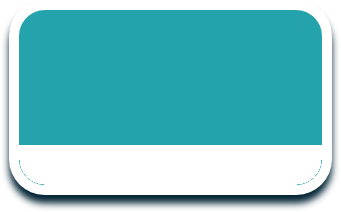
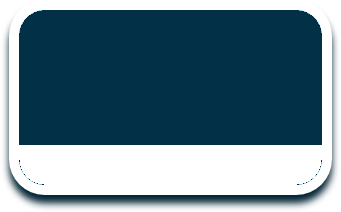
design

diff --git a/PT2023/WelcomePage.xaml b/PT2023/WelcomePage.xaml
@@ -7,33 +7,91 @@
              mc:Ignorable="d" 
              d:DesignHeight="450" d:DesignWidth="800" >
     <Grid Name="myGrid">
-        <Image Source="Images\BackgroundW.png" Name="backgroundImg" Stretch="Fill"  />
+        <!-- <Image Source="Images\BackgroundW.png" Name="backgroundImg" Stretch="Fill"  /> -->
+        <Rectangle Fill="#8ecae6"  />
         <Image Source="Images\Title.png" VerticalAlignment="Top" HorizontalAlignment="Center" Height="90"/>
         <Grid Name="Grid_for_Mode_Selection" Visibility="Visible">
             <Grid Name="PracticeGrid" Height="120" HorizontalAlignment="Left" VerticalAlignment="Top"  Margin="42,230,620,225" Width="200" >
                 <Image Source="Images\container4.png"  Stretch="Fill"  />
-                <Button  HorizontalAlignment="Left" BorderThickness="0" Margin="10,5,0,0" VerticalAlignment="Top" FontSize="20" Background="Transparent" Click="Button_Click_1" Height="70" Width="70">
-                    <Image Source="Images/btn_speaking.png" />
+                <Button Name="PracticeButton" HorizontalAlignment="Left" MouseEnter="PracticeButton_MouseEnter" MouseLeave="PracticeButton_MouseLeave" BorderThickness="0"  Margin="10,5,0,0" VerticalAlignment="Top" FontSize="20" Background="Transparent" Click="Button_Click_1" Height="70" Width="70">
+                    <Button.Style>
+                        <Style TargetType="{x:Type Button}">
+                            <Setter Property="Background" Value="Transparent"/>
+                            <Setter Property="Template">
+                                <Setter.Value>
+                                    <ControlTemplate TargetType="{x:Type Button}">
+                                        <Border Background="{TemplateBinding Background}">
+                                            <ContentPresenter HorizontalAlignment="Center" VerticalAlignment="Center"/>
+                                        </Border>
+                                    </ControlTemplate>
+                                </Setter.Value>
+                            </Setter>
+                            <Style.Triggers>
+                                <Trigger Property="IsMouseOver" Value="True">
+                                    <Setter Property="Background" Value="Transparent"/>
+                                </Trigger>
+                            </Style.Triggers>
+                        </Style>
+                    </Button.Style>
+                    <Image x:Name="imgPracticeButton" Source="Images/btn_speaking.png" />
                 </Button>
-                <Label Content="Practice Presentation" FontSize="13" HorizontalAlignment="Left" Margin="10,0,0,5" VerticalAlignment="Bottom"  Foreground="Black"/>
-                <CheckBox Content="Script" HorizontalAlignment="Left" Margin="95,55,0,0" VerticalAlignment="Top" Name="checkBoxScript" />
-                <CheckBox Content="Skeleton" HorizontalAlignment="Left" Margin="95,35,0,0" VerticalAlignment="Top" Name="checkBoxSkeleton"/>
+                <Label Content="Practice Presentation" FontSize="13" HorizontalAlignment="Left" Margin="10,0,0,5" VerticalAlignment="Bottom"  Foreground="Black" FontWeight="Bold"/>
+                <CheckBox Content="Script" Foreground="White" HorizontalAlignment="Left" Margin="95,55,0,0" VerticalAlignment="Top" Name="checkBoxScript" />
+                <CheckBox Content="Skeleton" Foreground="White" HorizontalAlignment="Left" Margin="95,35,0,0" VerticalAlignment="Top" Name="checkBoxSkeleton"/>
 
             </Grid>
             <Grid Name="AddScriptGrid" Height="120" HorizontalAlignment="Left" VerticalAlignment="Top"  Margin="42,80,620,225" Width="200" >
                 <Image Source="Images\container4.png"  Stretch="Fill"  />
-                <Button Name="Button_add_Script" BorderThickness="0" HorizontalAlignment="Left" Margin="10,5,0,0" VerticalAlignment="Top" FontSize="13" Background="Transparent"  Height="70" Width="70" Click="Button_add_Script_Click">
-                    <Image Source="Images/btn_script.png" />
+                <Button Name="Button_add_Script" BorderThickness="0" HorizontalAlignment="Center" Margin="0,5,0,0" VerticalAlignment="Top" FontSize="13" Background="Transparent"  Height="70" Width="70" MouseEnter="Button_add_Script_MouseEnter" MouseLeave="Button_add_Script_MouseLeave" Click="Button_add_Script_Click">
+                    <Button.Style>
+                        <Style TargetType="{x:Type Button}">
+                            <Setter Property="Background" Value="Transparent"/>
+                            <Setter Property="Template">
+                                <Setter.Value>
+                                    <ControlTemplate TargetType="{x:Type Button}">
+                                        <Border Background="{TemplateBinding Background}">
+                                            <ContentPresenter HorizontalAlignment="Center" VerticalAlignment="Center"/>
+                                        </Border>
+                                    </ControlTemplate>
+                                </Setter.Value>
+                            </Setter>
+                            <Style.Triggers>
+                                <Trigger Property="IsMouseOver" Value="True">
+                                    <Setter Property="Background" Value="Transparent"/>
+                                </Trigger>
+                            </Style.Triggers>
+                        </Style>
+                    </Button.Style>
+                    <Image x:Name="imgButtonScript" Source="Images/btn_script.png" />
                 </Button>
-                <Label Content="Work with Script" FontSize="13" HorizontalAlignment="Left" Margin="10,0,0,5" VerticalAlignment="Bottom"  Foreground="Black"/>
+                <Label Content="Work with Script" FontSize="13" HorizontalAlignment="Left" Margin="10,0,0,5" VerticalAlignment="Bottom"  Foreground="Black" FontWeight="Bold"/>
 
             </Grid>
             <Grid Name="MemoriseScriptGrid" Height="120" HorizontalAlignment="Left" VerticalAlignment="Top"  Margin="274,80,0,0" Width="200" >
                 <Image Source="Images\container4.png"  Stretch="Fill"  />
-                <Button Name="Button_add_Memory"  BorderThickness="0" HorizontalAlignment="Left" Margin="10,5,0,0" VerticalAlignment="Top" FontSize="20" Background="Transparent"  Height="70" Width="70" Click="Button_add_Memory_Click" >
-                    <Image Source="Images/btn_memory.png" />
+                <Button Name="Button_add_Memory"  BorderThickness="0" MouseEnter="Button_add_Memory_MouseEnter" MouseLeave="Button_add_Memory_MouseLeave" HorizontalAlignment="Center" Margin="0,5,0,0" VerticalAlignment="Top" FontSize="20" Background="Transparent"  Height="70" Width="70" Click="Button_add_Memory_Click" >
+                    <Button.Style>
+                        <Style TargetType="{x:Type Button}">
+                            <Setter Property="Background" Value="Transparent"/>
+                            <Setter Property="Template">
+                                <Setter.Value>
+                                    <ControlTemplate TargetType="{x:Type Button}">
+                                        <Border Background="{TemplateBinding Background}">
+                                            <ContentPresenter HorizontalAlignment="Center" VerticalAlignment="Center"/>
+                                        </Border>
+                                    </ControlTemplate>
+                                </Setter.Value>
+                            </Setter>
+                            <Style.Triggers>
+                                <Trigger Property="IsMouseOver" Value="True">
+                                    <Setter Property="Background" Value="Transparent"/>
+                                </Trigger>
+                            </Style.Triggers>
+                        </Style>
+                    </Button.Style>
+                    <Image x:Name="imgMemoryButton" Source="Images/btn_memory.png" />
                 </Button>
-                <Label Content="Memorise your Script" FontSize="13" HorizontalAlignment="Left" Margin="10,0,0,5" VerticalAlignment="Bottom"  Foreground="Black"/>
+                <Label Content="Memorise your Script" FontSize="13" HorizontalAlignment="Left" Margin="10,0,0,5" VerticalAlignment="Bottom"  Foreground="Black" FontWeight="Bold"/>
 
             </Grid>
 
@@ -48,28 +106,62 @@
 
             <Grid Name="ReviewPracticeGrid" Height="120" HorizontalAlignment="Left" VerticalAlignment="Top"  Margin="274,232,0,0" Width="200" >
                 <Image Source="Images\container4.png"  Stretch="Fill"  />
-                <Button Name="Button_Review_Practice"  BorderThickness="0" HorizontalAlignment="Left" Margin="10,5,0,0" VerticalAlignment="Top" FontSize="20" Background="Transparent"  Height="70" Width="70" Click="Button_Review_Practice_Click">
-                    <Image Source="Images/btn_review.png" />
+                <Button Name="Button_Review_Practice"  BorderThickness="0" MouseEnter="Button_Review_Practice_MouseEnter" MouseLeave="Button_Review_Practice_MouseLeave" HorizontalAlignment="Center" Margin="0,5,0,0" VerticalAlignment="Top" FontSize="20" Background="Transparent"  Height="70" Width="70" Click="Button_Review_Practice_Click">
+                    <Button.Style>
+                        <Style TargetType="{x:Type Button}">
+                            <Setter Property="Background" Value="Transparent"/>
+                            <Setter Property="Template">
+                                <Setter.Value>
+                                    <ControlTemplate TargetType="{x:Type Button}">
+                                        <Border Background="{TemplateBinding Background}">
+                                            <ContentPresenter HorizontalAlignment="Center" VerticalAlignment="Center"/>
+                                        </Border>
+                                    </ControlTemplate>
+                                </Setter.Value>
+                            </Setter>
+                            <Style.Triggers>
+                                <Trigger Property="IsMouseOver" Value="True">
+                                    <Setter Property="Background" Value="Transparent"/>
+                                </Trigger>
+                            </Style.Triggers>
+                        </Style>
+                    </Button.Style>
+                    <Image x:Name="imgButtonReview" Source="Images/btn_review.png" />
                 </Button>
-                <Label Content="Review your practice" FontSize="13" HorizontalAlignment="Left" Margin="10,00,0,5" VerticalAlignment="Bottom"  Foreground="Black"/>
+                <Label Content="Review your practice" FontSize="13" HorizontalAlignment="Left" Margin="10,00,0,5" VerticalAlignment="Bottom"  Foreground="Black" FontWeight="Bold"/>
                
             </Grid>
             <Grid Name="PresentationTipsGrid" Height="120" HorizontalAlignment="Left" VerticalAlignment="Top"  Margin="50,380,220, 225" Width="200" >
                 <Image Source="Images\container4.png"  Stretch="Fill"  />
-                <Button Name="Button_Presentation_Tips"  BorderThickness="0" HorizontalAlignment="Left" Margin="10,5,0,0" VerticalAlignment="Top" FontSize="20" Background="Transparent"  Height="77" Width="180" Click="Button_Presentation_Tips_Click">
-                    <Button.ToolTip>
-                        <ToolTip>
-                            <TextBlock Text="Get your valuable presentation tips here"/>
-                        </ToolTip>
-                    </Button.ToolTip>
-                    <Image Source="Images/Tips presentation.png" />
+                <Button Name="Button_Presentation_Tips"  BorderThickness="0" HorizontalAlignment="Center" MouseEnter="Button_Presentation_Tips_MouseEnter" MouseLeave="Button_Presentation_Tips_MouseLeave" Margin="0,5,0,0" VerticalAlignment="Top" FontSize="20" Background="Transparent"  Height="77" Width="180" Click="Button_Presentation_Tips_Click">
+                    <Button.Style>
+                        <Style TargetType="{x:Type Button}">
+                            <Setter Property="Background" Value="Transparent"/>
+                            <Setter Property="Template">
+                                <Setter.Value>
+                                    <ControlTemplate TargetType="{x:Type Button}">
+                                        <Border Background="{TemplateBinding Background}">
+                                            <ContentPresenter HorizontalAlignment="Center" VerticalAlignment="Center"/>
+                                        </Border>
+                                    </ControlTemplate>
+                                </Setter.Value>
+                            </Setter>
+                            <Style.Triggers>
+                                <Trigger Property="IsMouseOver" Value="True">
+                                    <Setter Property="Background" Value="Transparent"/>
+                                </Trigger>
+                            </Style.Triggers>
+                        </Style>
+                    </Button.Style>
+                    <Image Name="imgButtonTips" Source="Images/btn_Tips_presentation.png" />
                 </Button>
                 <Label Content="Get presentation tips"  FontWeight="Bold" FontSize="13" HorizontalAlignment="Left" Margin="10,00,0,5" VerticalAlignment="Bottom"  Foreground="Black"/>
 
             </Grid>
 
         </Grid>
-        <Rectangle VerticalAlignment="Bottom" Height="70" Fill="White" Opacity="0.3"></Rectangle>
+       <!-- <Rectangle VerticalAlignment="Bottom" Height="70" Fill="White" Opacity="0.3"></Rectangle> -->
+        <Rectangle VerticalAlignment="Bottom" Height="70" Fill="#219ebc" ></Rectangle>
         <Label Content="Select Camera" HorizontalAlignment="Left" Margin="22,0,0,10" VerticalAlignment="Bottom" FontWeight="Bold" Foreground="White"/>
         <ComboBox Name="cameraSelector" Background="Transparent" BorderBrush="Transparent"  Foreground="Black"  HorizontalAlignment="Left" Margin="144,0,0,10" VerticalAlignment="Bottom" Width="120" SelectionChanged="cameraSelector_SelectionChanged" Opacity="0.5"/>
         <Button  HorizontalAlignment="Left" MouseEnter="Button_MouseEnter" MouseLeave="Button_MouseLeave" Margin="300,0,0,10" VerticalAlignment="Bottom" Click="Button_Click" BorderThickness="0" Background="Transparent" Height="30" Width="30">

diff --git a/PT2023/PracticeMode.xaml b/PT2023/PracticeMode.xaml
@@ -10,7 +10,7 @@
         <Image Name="imgFrame" Source="Images/frame.png" Stretch="Fill" />
         <Image Name="myImage" HorizontalAlignment="Left" Height="599" Margin="60,60,0,0" VerticalAlignment="Top" Width="750"/>
         
-        <Button Name="Button_Pause_Play" BorderThickness="0" MouseEnter="Button_Pause_Play_MouseEnter" MouseLeave="Button_Pause_Play_MouseLeave" Background="Transparent" Height="50" Width="50" HorizontalAlignment="Left" Margin="108,0,0,100" VerticalAlignment="Bottom" Click="Button_Pause_Play_Click">
+        <Button Name="Button_Pause_Play" BorderThickness="0" MouseEnter="Button_Pause_Play_MouseEnter" MouseLeave="Button_Pause_Play_MouseLeave" Background="Transparent" Height="50" Width="50" HorizontalAlignment="Center" Margin="0,0,0,100" VerticalAlignment="Bottom" Click="Button_Pause_Play_Click">
             <Button.Style>
                 <Style TargetType="{x:Type Button}">
                     <Setter Property="Background" Value="Transparent"/>
@@ -35,7 +35,7 @@
         <Label Name="DebugLabel" Content="Label" HorizontalAlignment="Left" Margin="201,707,0,0" VerticalAlignment="Top" Height="83" Width="215"/>
         <Label Name="FeedbackLabel" Visibility="Collapsed" Background="White" Content="HERE is the FEEDBACK!!!"  Foreground="Red" Height="80" Width="400" Margin="0,50,0,0" FontSize="35" VerticalAlignment="Center" HorizontalContentAlignment="Center" />
         <Label Name="ManualFeedback"  Visibility="Collapsed" Background="White" Content=""  Foreground="Red" Height="80" Width="400" Margin="0,0,0,80" FontSize="35" VerticalAlignment="Center" HorizontalContentAlignment="Center" />
-        <Canvas x:Name="scrptCanvas" Background="Transparent" Visibility="Visible" Height="80"  Width="750"  Margin="60,0,230,110" VerticalAlignment="Bottom">
+        <Canvas x:Name="scrptCanvas" Background="Transparent" Visibility="Visible" Height="80"  Width="750"  Margin="60,0,230,160" VerticalAlignment="Bottom">
             <Button Canvas.Left="0" MouseEnter="buttonBack_MouseEnter" MouseLeave="buttonBack_MouseLeave" Background="Transparent" Name="buttonBack" Height="50"  Click="buttonBack_Click" Visibility="Collapsed">
                 <Button.Style>
                     <Style TargetType="{x:Type Button}">
@@ -81,7 +81,7 @@
                 <Image Name="buttonNextImg" Source="Images/btn_next.png" />
             </Button>
             
-            <Label Name="ScriptLabel" Canvas.Left="65" Visibility="Collapsed" Content="" Width="620" Background="WhiteSmoke"  Foreground="Blue" Height="80" FontSize="20"  />
+            <Label Name="ScriptLabel" Canvas.Left="65" Visibility="Collapsed" Content="" Width="620" Background="Transparent"  Foreground="Blue" Height="80" FontSize="20"  />
             <Button Canvas.Left="305" Canvas.Top="40" MouseEnter="buttonSpeak_MouseEnter" MouseLeave="buttonSpeak_MouseLeave" Background="Transparent" Name="buttonSpeak"  Visibility="Collapsed" Click="buttonSpeak_Click">
                 <Button.Style>
                     <Style TargetType="{x:Type Button}">

diff --git a/PT2023/WelcomePage.xaml.cs b/PT2023/WelcomePage.xaml.cs
@@ -563,9 +563,59 @@ namespace PT2023
             SlideSelectionButtonImg.Source = new BitmapImage(new Uri(System.IO.Directory.GetCurrentDirectory() + "\\Images\\btn_slides.png"));
         }
 
+        private void Button_add_Script_MouseEnter(object sender, MouseEventArgs e)
+        {
+            imgButtonScript.Source = new BitmapImage(new Uri(System.IO.Directory.GetCurrentDirectory() + "\\Images\\btn_scriptO.png"));
+        }
+
+        private void Button_add_Script_MouseLeave(object sender, MouseEventArgs e)
+        {
+            imgButtonScript.Source = new BitmapImage(new Uri(System.IO.Directory.GetCurrentDirectory() + "\\Images\\btn_script.png"));
+        }
+
+
+
+        private void PracticeButton_MouseEnter(object sender, MouseEventArgs e)
+        {
+            imgPracticeButton.Source = new BitmapImage(new Uri(System.IO.Directory.GetCurrentDirectory() + "\\Images\\btn_speakingO.png"));
+        }
+
+        private void PracticeButton_MouseLeave(object sender, MouseEventArgs e)
+        {
+            imgPracticeButton.Source = new BitmapImage(new Uri(System.IO.Directory.GetCurrentDirectory() + "\\Images\\btn_speaking.png"));
+        }
+
+        private void Button_add_Memory_MouseEnter(object sender, MouseEventArgs e)
+        {
+            imgMemoryButton.Source = new BitmapImage(new Uri(System.IO.Directory.GetCurrentDirectory() + "\\Images\\btn_memoryO.png"));
+        }
+
+        private void Button_add_Memory_MouseLeave(object sender, MouseEventArgs e)
+        {
+            imgMemoryButton.Source = new BitmapImage(new Uri(System.IO.Directory.GetCurrentDirectory() + "\\Images\\btn_memory.png"));
+        }
+
+        private void Button_Review_Practice_MouseEnter(object sender, MouseEventArgs e)
+        {
+            imgButtonReview.Source = new BitmapImage(new Uri(System.IO.Directory.GetCurrentDirectory() + "\\Images\\btn_reviewO.png"));
+        }
+
+        private void Button_Review_Practice_MouseLeave(object sender, MouseEventArgs e)
+        {
+            imgButtonReview.Source = new BitmapImage(new Uri(System.IO.Directory.GetCurrentDirectory() + "\\Images\\btn_review.png"));
+        }
+
+        private void Button_Presentation_Tips_MouseEnter(object sender, MouseEventArgs e)
+        {
+            imgButtonTips.Source = new BitmapImage(new Uri(System.IO.Directory.GetCurrentDirectory() + "\\Images\\btn_tips_presentationO.png"));
+        }
+
+        private void Button_Presentation_Tips_MouseLeave(object sender, MouseEventArgs e)
+        {
+            imgButtonTips.Source = new BitmapImage(new Uri(System.IO.Directory.GetCurrentDirectory() + "\\Images\\btn_tips_presentation.png"));
+        }
+
         #endregion
-
-
 
 
     }

diff --git a/PT2023/ReviewPractice.xaml.cs b/PT2023/ReviewPractice.xaml.cs
@@ -49,8 +49,8 @@ namespace PT2023
 
         void setupSize()
         {
-            this.Width = System.Windows.SystemParameters.PrimaryScreenWidth;
-            this.Height = System.Windows.SystemParameters.PrimaryScreenHeight;
+            this.Width = System.Windows.SystemParameters.PrimaryScreenWidth *.75;
+            this.Height = System.Windows.SystemParameters.PrimaryScreenHeight*.75;
 
             mainGrid.Height = this.Height;
             mainGrid.Width = this.Width;
@@ -59,7 +59,7 @@ namespace PT2023
             imgFrame.Width = this.Width;
 
             myVideo.Width = this.Width - 350;
-            myVideo.Height = this.Height - 301;
+            myVideo.Height = this.Height - 300;
 
 
         }

diff --git a/PT2023/PracticeMode.xaml.cs b/PT2023/PracticeMode.xaml.cs
@@ -153,8 +153,8 @@ namespace PT2023
 
         void setupSize()
         {
-            this.Width= System.Windows.SystemParameters.PrimaryScreenWidth;
-            this.Height=System.Windows.SystemParameters.PrimaryScreenHeight;
+            this.Width= System.Windows.SystemParameters.PrimaryScreenWidth*.75;
+            this.Height=System.Windows.SystemParameters.PrimaryScreenHeight*.75;
 
             mainGrid.Height = this.Height;
             mainGrid.Width = this.Width;
@@ -163,7 +163,7 @@ namespace PT2023
             imgFrame.Width = this.Width;
 
             myImage.Width = this.Width-350;
-            myImage.Height = this.Height-301;
+            myImage.Height = this.Height-300;
 
 
         }
